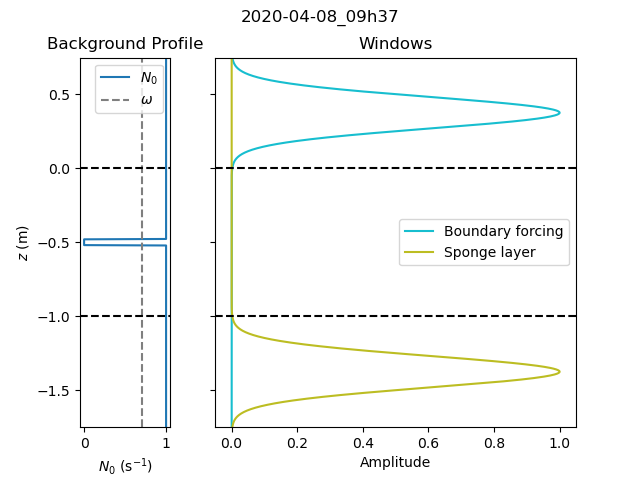
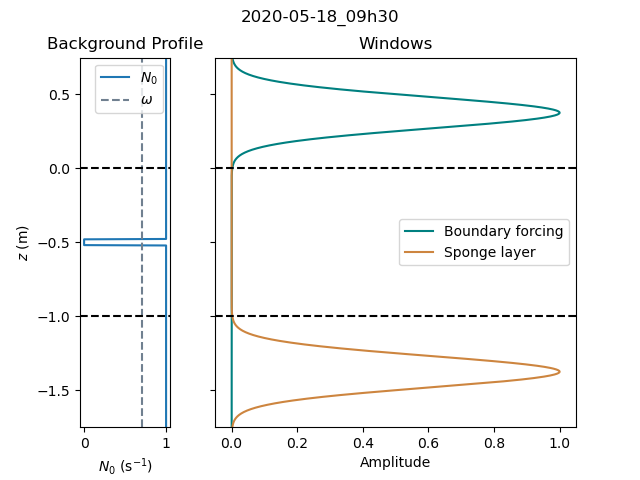
Code up and running again after hiatus

diff --git a/helper_functions.py b/helper_functions.py
@@ -161,33 +161,6 @@ def format_labels_and_ticks(ax, hori_label):
 ###############################################################################
 # Plotting colors from style guide
 
-my_clrs       =  {'b': TAB_COLORS['tab:blue'],
-                  'w': (1, 0, 0),               # - r
-                  'u': (0, 0, 1),               # - b
-                  'v'  : (0, 0.5, 0),           # - g
-                  'p': CSS4_COLORS['plum'],
-                  'diffusion': CSS4_COLORS['peru'],
-                  'viscosity': CSS4_COLORS['peru'],
-                  'N_0': TAB_COLORS['tab:blue'],
-                  'rho': CSS4_COLORS['slateblue'],
-                  'advection': CSS4_COLORS['indianred'],
-                  'coriolis': CSS4_COLORS['teal'],
-                  'omega': CSS4_COLORS['slategray'],
-                  'F_bf': '#008080',            # - teal
-                  'F_sp': '#CD853F',            # - peru
-                  'temperature': '#B22222',     # - firebrick
-                  'salinity': '#4682B4',        # - steelblue
-                  'incident': '#8A2BE2',        # - blueviolet
-                  'transmission': '#4169E1',    # - royalblue
-                  'reflection': '#FF6347',      # - tomato
-                  'linear': CSS4_COLORS['forestgreen'],
-                  'nonlinear': CSS4_COLORS['indianred'],
-                  'arctic': CSS4_COLORS['cornflowerblue'],
-                  'cold-fresh': CUSTOM_COLORS['lightcornflowerblue2'],
-                  'warm-salty': CUSTOM_COLORS['lightred3'],
-                  'black': (0, 0, 0),
-                  'white': (1, 1, 1)}
-
 CUSTOM_COLORS ={'lightcornflowerblue2': '#a4c2f4',
                 'lightred3': '#f2c1c1'}
 
@@ -351,3 +324,31 @@ CSS4_COLORS =  {'aliceblue': '#F0F8FF',
                 'whitesmoke': '#F5F5F5',
                 'yellow': '#FFFF00',
                 'yellowgreen': '#9ACD32'}
+
+
+my_clrs       =  {'b': TAB_COLORS['tab:blue'],
+                  'w': (1, 0, 0),               # - r
+                  'u': (0, 0, 1),               # - b
+                  'v'  : (0, 0.5, 0),           # - g
+                  'p': CSS4_COLORS['plum'],
+                  'diffusion': CSS4_COLORS['peru'],
+                  'viscosity': CSS4_COLORS['peru'],
+                  'N_0': TAB_COLORS['tab:blue'],
+                  'rho': CSS4_COLORS['slateblue'],
+                  'advection': CSS4_COLORS['indianred'],
+                  'coriolis': CSS4_COLORS['teal'],
+                  'omega': CSS4_COLORS['slategray'],
+                  'F_bf': '#008080',            # - teal
+                  'F_sp': '#CD853F',            # - peru
+                  'temperature': '#B22222',     # - firebrick
+                  'salinity': '#4682B4',        # - steelblue
+                  'incident': '#8A2BE2',        # - blueviolet
+                  'transmission': '#4169E1',    # - royalblue
+                  'reflection': '#FF6347',      # - tomato
+                  'linear': CSS4_COLORS['forestgreen'],
+                  'nonlinear': CSS4_COLORS['indianred'],
+                  'arctic': CSS4_COLORS['cornflowerblue'],
+                  'cold-fresh': CUSTOM_COLORS['lightcornflowerblue2'],
+                  'warm-salty': CUSTOM_COLORS['lightred3'],
+                  'black': (0, 0, 0),
+                  'white': (1, 1, 1)}

diff --git a/main.py b/main.py
@@ -144,17 +144,18 @@ if sbp.plot_windows:
 ###############################################################################
 # Define equations
 #   Non-linear terms and NCC need to be on RHS
+#   BP, F_terms, S_terms are NCC, Advection is nonlinear
 
 problem.add_equation("dz(w) - k*u = 0")
 problem.add_equation("dt(b) - KA*(dz(dz(b)) - (k**2)*b) " \
-                     " = -((N0*BP)**2)*w - (w*dz(b) + k*u*b) " \ # BP is a NCC
-                     " + F_term_b - S_term_b ")         # bf and sp are NCC
+                     " = -((N0*BP)**2)*w - (w*dz(b) + k*u*b) " \
+                     " + F_term_b - S_term_b ")
 problem.add_equation("dt(u) - NU*(dz(dz(u)) - (k**2)*u) + k*p " \
-                     " = - (w*dz(u) + k*u*u) " \        # Advection is non-linear
-                     " + F_term_u - S_term_u ")         # bf and sp are NCC
+                     " = - (w*dz(u) + k*u*u) " \
+                     " + F_term_u - S_term_u ")
 problem.add_equation("dt(w) - NU*(dz(dz(w)) - (k**2)*w) + dz(p) - b " \
-                     " = - (w*dz(w) + k*u*w) " \        # Advection is non-linear
-                     " + F_term_w - S_term_w ")         # bf and sp are NCC
+                     " = - (w*dz(w) + k*u*w) " \
+                     " + F_term_w - S_term_w ")
 
 # Build solver
 solver = problem.build_solver(de.timesteppers.SBDF2)
